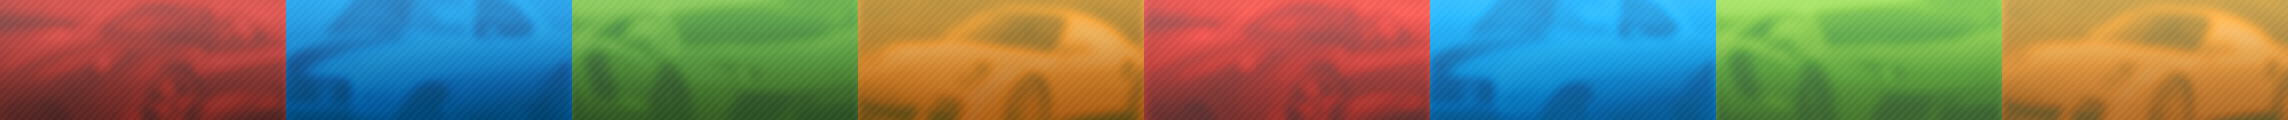
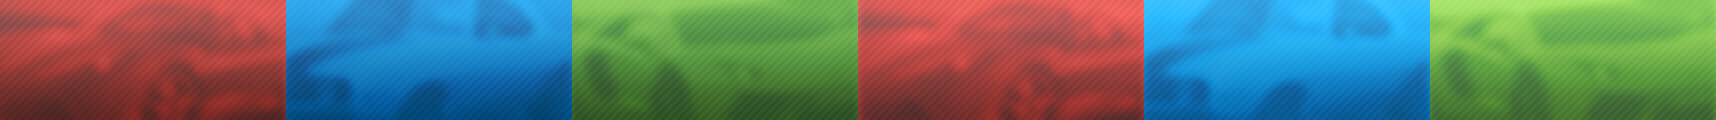
remove yellow background from background image

diff --git a/event-module.css b/event-module.css
@@ -59,7 +59,7 @@
 	text-shadow: 0 1px 0 rgba(0,0,0,0.35);
 }
 .side .md .event-block:hover {
-	background-position: -1430px center;
+	background-position: -1144px center;
 }
 
 .side .md .event-block.state-finished {
@@ -67,7 +67,7 @@
 	background-position: 0 center;
 }
 .side .md .event-block.state-finished:hover {
-	background-position: -1144px center;
+	background-position: -858px center;
 }
 
 .side .md .event-block.state-progress {
@@ -75,7 +75,7 @@
 	background-color: #adc23a;
 }
 .side .md .event-block.state-progress:hover {
-	background-position: -1716px center;
+	background-position: -1430px center;
 }
 
 .side .md .event-block p {
